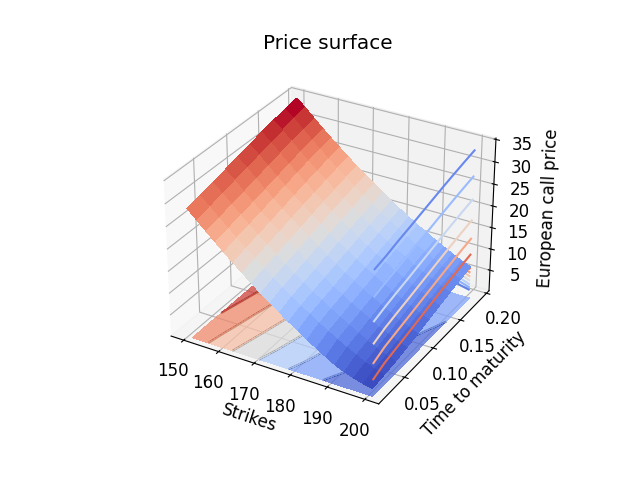
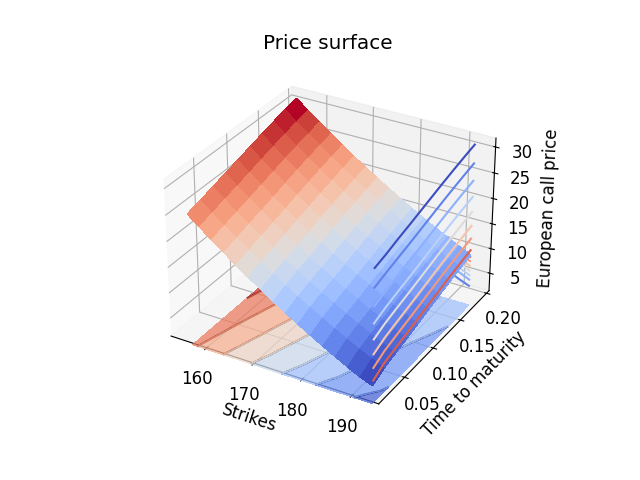
started writing heston model calibration method using fft pricing

diff --git a/volatility.cpp b/volatility.cpp
@@ -144,26 +144,11 @@ namespace Volatility
 				"Time to maturity"sv,
 				10,
 				"Strikes"sv,
-				21,
+				16,
 				"European call price"sv
 			);
 
 			/*
-			priceSurface.m_table =
-			{ { {25.40,	22.85,	20.25,	18.40,	16.60,	14.85,	13.15,	11.50,	9.90,	8.35,	6.85,	5.40,	4.00,	2.65,	1.35,	1.10,	0.80,	0.65,	0.55,	0.45,	0.35},
-				{26.00,	24.10,	22.25,	20.45,	18.70,	17.00,	15.35,	13.75,	12.20,	10.70,	9.25,	7.85,	6.50,	5.20,	3.95,	2.75,	1.60,	1.20,	1.00,	0.85,	0.70},
-				{26.90,	25.05,	23.25,	21.50,	19.80,	18.15,	16.55,	15.00,	13.50,	12.05,	10.65,	9.30,	8.00,	6.75,	5.55,	4.40,	3.30,	2.30,	1.80,	1.50,	1.25},
-				{27.75,	25.95,	24.20,	22.50,	20.85,	19.25,	17.70,	16.20,	14.75,	13.35,	12.00,	10.70,	9.45,	8.25,	7.10,	6.00,	4.95,	3.95,	3.35,	2.80,	2.35},
-				{28.55,	26.80,	25.10,	23.40,	21.80,	20.25,	18.75,	17.30,	15.90,	14.55,	13.25,	12.00,	10.80,	9.65,	8.55,	7.50,	6.50,	5.55,	4.85,	4.25,	3.75},
-				{29.30,	27.60,	25.90,	24.25,	22.70,	21.20,	19.75,	18.35,	17.00,	15.70,	14.45,	13.25,	12.10,	11.00,	9.95,	8.95,	8.00,	7.10,	6.40,	5.75,	5.15},
-				{30.00,	28.35,	26.65,	25.05,	23.55,	22.10,	20.70,	19.35,	18.05,	16.80,	15.60,	14.45,	13.35,	12.30,	11.30,	10.35,	9.45,	8.60,	7.90,	7.25,	6.65},
-				{30.65,	29.05,	27.35,	25.75,	24.30,	22.90,	21.55,	20.25,	19.00,	17.80,	16.65,	15.55,	14.50,	13.50,	12.55,	11.65,	10.80,	10.00,	9.30,	8.65,	8.05},
-				{31.25,	29.70,	28.00,	26.40,	25.00,	23.60,	22.30,	21.05,	19.85,	18.70,	17.60,	16.55,	15.55,	14.60,	13.70,	12.85,	12.05,	11.30,	10.60,	9.95,	9.35},
-				{31.80,	30.30,	28.60,	27.00,	25.65,	24.30,	23.00,	21.80,	20.65,	19.55,	18.50,	17.50,	16.55,	15.65,	14.80,	14.00,	13.25,	12.55,	11.90,	11.30,	10.75}
-			
-			} };
-			*/
-
 			priceSurface.m_table =
 			{ {
 			{ 28.50, 26.60, 24.75, 22.90, 21.10, 19.35, 17.65, 16.00, 14.40, 12.85, 11.35, 9.90, 8.50, 7.15, 5.85, 4.60, 3.40, 2.50, 1.80, 1.20, 0.80 },
@@ -177,56 +162,26 @@ namespace Volatility
 			{ 34.00, 32.40, 30.50, 28.65, 26.90, 25.20, 23.55, 21.95, 20.40, 18.90, 17.45, 16.05, 14.70, 13.40, 12.15, 10.95, 9.80, 8.70, 7.65, 6.70, 5.85 },
 			{ 34.60, 33.00, 31.10, 29.25, 27.50, 25.80, 24.15, 22.55, 21.00, 19.50, 18.05, 16.65, 15.30, 14.00, 12.75, 11.55, 10.40, 9.30, 8.25, 7.30, 6.45 }
 			} };	
-
-			/*
-			priceSurface.m_table = {
-				{
-					{ 17.00, 16.85, 16.60, 16.30, 16.05, 15.75, 15.35, 15.00, 14.65, 14.20, 13.80, 13.35, 12.90, 12.45, 12.00, 11.55, 11.15, 10.75, 10.35, 10.00, 9.65 },  // 1 week
-					{ 18.00, 17.75, 17.50, 17.25, 17.00, 16.75, 16.45, 16.10, 15.75, 15.40, 15.00, 14.65, 14.20, 13.80, 13.35, 12.95, 12.55, 12.10, 11.70, 11.30, 10.95 },  // 2 weeks
-					{ 19.00, 18.75, 18.45, 18.20, 17.90, 17.65, 17.35, 17.00, 16.70, 16.30, 15.95, 15.60, 15.20, 14.80, 14.40, 14.00, 13.60, 13.20, 12.80, 12.45, 12.05 },  // 3 weeks
-					{ 19.90, 19.65, 19.40, 19.10, 18.85, 18.55, 18.25, 17.95, 17.60, 17.25, 16.85, 16.50, 16.10, 15.75, 15.40, 15.00, 14.60, 14.25, 13.85, 13.50, 13.10 },  // 4 weeks
-					{ 20.80, 20.55, 20.25, 20.00, 19.70, 19.40, 19.10, 18.75, 18.45, 18.10, 17.75, 17.40, 17.00, 16.65, 16.30, 15.95, 15.60, 15.25, 14.90, 14.55, 14.15 },  // 5 weeks
-					{ 21.65, 21.40, 21.10, 20.85, 20.55, 20.30, 19.95, 19.65, 19.35, 19.00, 18.65, 18.30, 17.95, 17.55, 17.20, 16.85, 16.50, 16.15, 15.85, 15.50, 15.10 },  // 6 weeks
-					{ 22.45, 22.20, 21.95, 21.65, 21.35, 21.05, 20.75, 20.45, 20.15, 19.85, 19.50, 19.15, 18.80, 18.45, 18.10, 17.75, 17.40, 17.05, 16.70, 16.35, 16.00 },  // 7 weeks
-					{ 23.30, 23.00, 22.75, 22.50, 22.20, 21.95, 21.65, 21.35, 21.00, 20.70, 20.35, 20.00, 19.65, 19.30, 18.95, 18.60, 18.25, 17.90, 17.55, 17.20, 16.85 },  // 8 weeks
-					{ 24.15, 23.90, 23.60, 23.35, 23.05, 22.75, 22.50, 22.20, 21.90, 21.60, 21.25, 20.90, 20.55, 20.20, 19.85, 19.50, 19.15, 18.80, 18.45, 18.10, 17.75 },  // 9 weeks
-					{ 25.00, 24.70, 24.50, 24.20, 23.90, 23.60, 23.30, 23.00, 22.70, 22.40, 22.05, 21.70, 21.35, 21.00, 20.65, 20.30, 19.95, 19.60, 19.25, 18.90, 18.55 }   // 10 weeks
-				}
-			};
 			*/
 
-
-			/*
-			priceSurface.m_table = {
-				{
-					{21.27499962, 18.84999084, 16.54999542, 14.25, 12.0999999, 10.07499981, 8.199999809, 6.5, 5, 3.700000048, 2.644999981, 1.815000057, 1.189999998, 0.754999995, 0.464999989, 0.280000001, 0.164999962, 0.435000002, 0.569999993, 0.764999986, 1.034999967, 1.414999962, 1.929999828, 2.605000019, 3.474999905, 4.525000095, 5.775000095, 7.25, 8.949999809, 10.82499981, 12.9000001, 15.1500001, 17.52499962, 19.87499714},
-					{41.07500076, 36.05000114, 31.25000286, 26.47499943, 21.82499695, 17.40000057, 13.3499999, 9.75, 6.700000048, 4.299999952, 2.539999962, 1.394999981, 0.725000024, 0.375, 0.194999993, 0.124999993, 0.069999998, 0.214999996, 0.310000002, 0.455000013, 0.680000007, 1.039999962, 1.634999275, 2.585000038, 4.000000119, 5.950000286, 8.599999905, 11.9000001, 15.82499981, 20.24999237, 24.97500038, 29.80000114, 34.74999237, 39.70000076, 41.32500076},
-					{36.47500038, 31.69999981, 27.07499981, 22.59999943, 18.375, 14.5, 11.0250001, 8.050000191, 5.600000381, 3.675000072, 2.299999952, 1.379999995, 0.819999993, 0.49000001, 0.295000002, 0.185000002, 0.354999989, 0.50999999, 0.724999994, 1.054999828, 1.555000007, 2.309999943, 3.399999976, 4.924999952, 6.950000048, 9.5, 12.69999981, 16.42499924, 20.625, 25.125, 29.92499542, 34.77499962, 39.75000191, 41.82498932, 37.07500458},
-					{32.42500114, 28.02500057, 23.72499847, 19.75, 16.0250001, 12.69999981, 9.775000095, 7.300000191, 5.299999952, 2.549999952, 1.135000229, 0.50999999, 0.260000005, 0.149999999, 0.094999997, 0.715000004, 0.980000019, 1.35499984, 1.885000229, 2.619999886, 3.600000024, 4.899999857, 6.600000143, 8.699999809, 11.2750001, 14.2750001, 21.625, 30.39999962, 39.92499542, 49.75, 59.74999237, 69.69999695, 42.09999084, 37.45000076, 32.95000458},
-					{28.62499237, 24.47499943, 20.55000019, 17, 13.75, 10.875, 8.449999809, 6.375, 4.699999809, 3.399999976, 2.42500031, 1.705000162, 1.195000172, 0.840000004, 0.960000008, 1.300000012, 1.764999986, 2.389999986, 3.25, 4.350000143, 5.75, 7.5, 9.625, 12.17500019, 15.125, 18.44999695, 22.22499084, 26.29999542, 30.67500305, 35.25, 40.05000114, 42.57500458, 37.92500305, 33.52500916, 29.29999828},
-					{25.25, 21.44999981, 17.90000153, 14.7249999, 11.875, 9.375, 7.274999619, 5.524999857, 4.100000143, 3.024999976, 2.179999828, 1.575000226, 1.134999931, 1.194999993, 1.585000098, 2.100000024, 2.784999967, 3.700000048, 4.875000238, 6.325000286, 8.099999905, 10.2750001, 12.7750001, 15.67500019, 18.94998932, 22.625, 26.59999847, 30.87499237, 35.39999962, 40.07500458, 44.625, 41, 36.75, 33.04999924},
-					{29.44999981, 26.10000038, 22.92499924, 19.94999981, 17.27499962, 14.8499999, 12.625, 10.67500019, 8.950000286, 7.425000191, 6.174999952, 5.075000048, 4.125, 3.149999976, 3.924999952, 4.825000048, 5.924999952, 7.250000238, 8.75, 10.4749999, 12.5, 14.7249999, 17.22500038, 19.97500038, 22.97500324, 26.25, 29.75, 33.5, 37.67499924, 41.65000153, 48.375, 44.625, 41.42500114, 37.625},
-					{34.39999962, 31.34999943, 28.375, 25.67500019, 23.02500057, 20.625, 18.375, 16.375, 14.5, 12.8499999, 11.29999971, 9.900000095, 8.675000191, 5.650000095, 6.700000286, 7.925000191, 9.225000381, 10.8499999, 12.5250001, 14.47500038, 16.625, 18.875, 21.32499981, 23.94999981, 26.92499828, 29.95000076, 33.25, 36.625, 40.25000763, 44.10000038, 51.
-				}
-			};
-			*/
+			priceSurface.m_table =
+			{ {
+			{ 24.75, 22.90, 21.10, 19.35, 17.65, 16.00, 14.40, 12.85, 11.35, 9.90, 8.50, 7.15, 5.85, 4.60, 3.40, 2.50 },
+			{ 25.40, 23.65, 21.90, 20.15, 18.50, 16.90, 15.35, 13.85, 12.40, 11.00, 9.65, 8.35, 7.10, 5.90, 4.75, 3.70 },
+			{ 26.20, 24.35, 22.60, 20.90, 19.25, 17.65, 16.10, 14.60, 13.15, 11.75, 10.40, 9.10, 7.85, 6.65, 5.50, 4.40 },
+			{ 26.90, 25.05, 23.30, 21.60, 19.95, 18.35, 16.80, 15.30, 13.85, 12.45, 11.10, 9.80, 8.55, 7.35, 6.20, 5.10 },
+			{ 27.65, 25.80, 24.05, 22.35, 20.70, 19.10, 17.55, 16.05, 14.60, 13.20, 11.85, 10.55, 9.30, 8.10, 6.95, 5.85 },
+			{ 28.40, 26.55, 24.80, 23.10, 21.45, 19.85, 18.30, 16.80, 15.35, 13.95, 12.60, 11.30, 10.05, 8.85, 7.70, 6.60 },
+			{ 29.15, 27.30, 25.55, 23.85, 22.20, 20.60, 19.05, 17.55, 16.10, 14.70, 13.35, 12.05, 10.80, 9.60, 8.45, 7.35 },
+			{ 29.85, 28.00, 26.25, 24.55, 22.90, 21.30, 19.75, 18.25, 16.80, 15.40, 14.05, 12.75, 11.50, 10.30, 9.15, 8.05 },
+			{ 30.50, 28.65, 26.90, 25.20, 23.55, 21.95, 20.40, 18.90, 17.45, 16.05, 14.70, 13.40, 12.15, 10.95, 9.80, 8.70 },
+			{ 31.10, 29.25, 27.50, 25.80, 24.15, 22.55, 21.00, 19.50, 18.05, 16.65, 15.30, 14.00, 12.75, 11.55, 10.40, 9.30 }
+			} };
 
 
-			/*
-			// scale down prices
-			for (std::size_t row{ 0 }; row < std::size(priceSurface.m_rowVals); ++row)
-			{
-				for (std::size_t col{ 0 }; col < std::size(priceSurface.m_colVals); ++col)
-				{
-					priceSurface.m_table[row][col] *= 0.5/static_cast<double>(col+1);
-				}
-			}
-			*/
-
-
-			priceSurface.m_colVals = { 150, 152.5, 155, 157.5, 160, 162.5, 165,
+			priceSurface.m_colVals = { 155, 157.5, 160, 162.5, 165,
 									167.5, 170, 172.5, 175, 177.5, 180, 182.5,
-									185, 187.5, 190, 192.5, 195, 197.5, 200
+									185, 187.5, 190, 192.5, 
 									};
 			priceSurface.m_rowVals = { 1.0 / 52.,2.0 / 52. ,3.0 / 52. ,4.0 / 52. ,5.0 / 52. ,
 										6.0 / 52. ,7.0 / 52. ,8.0 / 52. ,9.0 / 52., 10.0 / 52. };

diff --git a/calibrate.cpp b/calibrate.cpp
@@ -1,0 +1,78 @@
+#include "calibrate.h"
+
+namespace Calibrate
+{
+	auto hestonTest(const LabeledTable& priceSurface, double riskFreeReturn, double spot, double dividendYield, std::string_view, std::string_view optimizer) -> HestonParams
+	{
+
+
+		std::vector<double> reversionRates{ np::linspace<double>(0.1,0.5,5) };
+		std::vector<double> longVariances{ np::linspace<double>(10.,20.,5) };
+		std::vector<double> volVols{ np::linspace<double>(0.1,0.5,5) };
+		std::vector<double> correlations{ np::linspace<double>(0.1,0.5,5) };
+		std::vector<double> initialVariances{ np::linspace<double>(1.,10.,5) };
+
+		HestonParams finalParams{
+			reversionRates[static_cast<std::size_t>(0)],
+			longVariances[static_cast<std::size_t>(0)],
+			volVols[static_cast<std::size_t>(0)],
+			correlations[static_cast<std::size_t>(0)],
+			initialVariances[static_cast<std::size_t>(0)],
+		};
+
+		// define params of FFT pricing method
+		FFT::fttParams params{};
+
+		// the maturity of the market variable will change later, the other values are fixed
+		MarketParams marketParams{ 1.0,spot,riskFreeReturn,dividendYield };
+
+		[[maybe_unused]]double error{};
+		[[maybe_unused]] double newError{};
+		for (const auto& rr : reversionRates)
+		{
+			for (const auto& lv : longVariances)
+			{
+				for (const auto& vv : volVols)
+				{
+					for (const auto& cr : correlations)
+					{
+						for (const auto& iv : initialVariances)
+						{
+							// collect model parameters
+							HestonParams modelParams{rr,lv,vv,cr,iv};
+
+							// add up errors of predicted prices
+							// rows are maturities
+							for (std::size_t row{ 0 }; row < std::size(priceSurface.m_rowVals); ++row)
+							{
+								// adjust maturity of market params
+								marketParams.maturity = priceSurface.m_rowVals[row];
+
+								FFT::LogStrikePricePair pair{ FFT::pricingfftHeston(modelParams, marketParams, params) };
+								// cols are strikes
+								for (std::size_t col{ 0 }; col < std::size(priceSurface.m_colVals); ++col)
+								{
+									rr;
+									lv;
+									vv;
+									cr;
+									iv;
+									row;
+									col;
+									optimizer;
+									dividendYield;
+									spot;
+									riskFreeReturn;
+								}
+							}
+
+						}
+					}
+				}
+			}
+		}
+
+
+		return finalParams;
+	}
+}

diff --git a/fft.h b/fft.h
@@ -41,6 +41,9 @@ namespace FFT
 	auto dft(const std::vector<std::complex<double>>& vec) -> std::vector<std::complex<double>>;
 	auto fft(const std::vector<std::complex<double>>& vec) -> std::vector<std::complex<double>>;
 	auto pricingfft(const auto& modelParams, const MarketParams& marketParams, const fttParams& params) -> LogStrikePricePair;
+	auto pricingfftHeston(const HestonParams& modelParams, const MarketParams& marketParams, const fttParams& params) -> LogStrikePricePair;
+	auto pricingfftBSM(const BSMParams& modelParams, const MarketParams& marketParams, const fttParams& params) -> LogStrikePricePair;
+
 
 	namespace UnitTests
 	{

diff --git a/plotting.py b/plotting.py
@@ -102,6 +102,6 @@ def plotOptionCSV(filenames):
 if __name__ == "__main__":
     # plotStockCSV(["Data/stockPath1.csv","Data/stockPath2.csv","Data/stockPath3.csv"])
     # plotOptionCSV(["Data/callPrices.csv","Data/callDeltas.csv","Data/callGammas.csv"])
-    plotSurface("Data/ArtificialPriceSurface.csv","priceSurfacePlot")
-    #plotSurface("Data/ArtificalVolSurface.csv","volSurfacePlot")
+    # plotSurface("Data/ArtificialPriceSurface.csv","priceSurfacePlot")
+    plotSurface("Data/ArtificalVolSurface.csv","volSurfacePlot")
 

diff --git a/fft.cpp b/fft.cpp
@@ -161,6 +161,18 @@ namespace FFT
 		return result;
 	}
 
+	auto pricingfftHeston(const HestonParams& modelParams, const MarketParams& marketParams, const fttParams& params) -> LogStrikePricePair
+	{
+		return pricingfft(modelParams, marketParams, params);
+	}
+
+	auto pricingfftBSM(const BSMParams& modelParams, const MarketParams& marketParams, const fttParams& params) -> LogStrikePricePair
+	{
+		return pricingfft(modelParams, marketParams, params);
+	}
+
+
+
 	namespace UnitTests
 	{
 		void separateModes()

diff --git a/calibrate.h b/calibrate.h
@@ -1,0 +1,13 @@
+#ifndef CALIBRATE_H
+#define CALIBRATE_H
+
+#include "sdes.h"
+#include "numpy.h"
+#include "fft.h"
+
+namespace Calibrate
+{
+	auto hestonTest(const LabeledTable& priceSurface, double riskFreeReturn, double spot, double dividendYield, std::string_view type = "call", std::string_view optimizer = "bruteForce") -> HestonParams;
+}
+
+#endif
